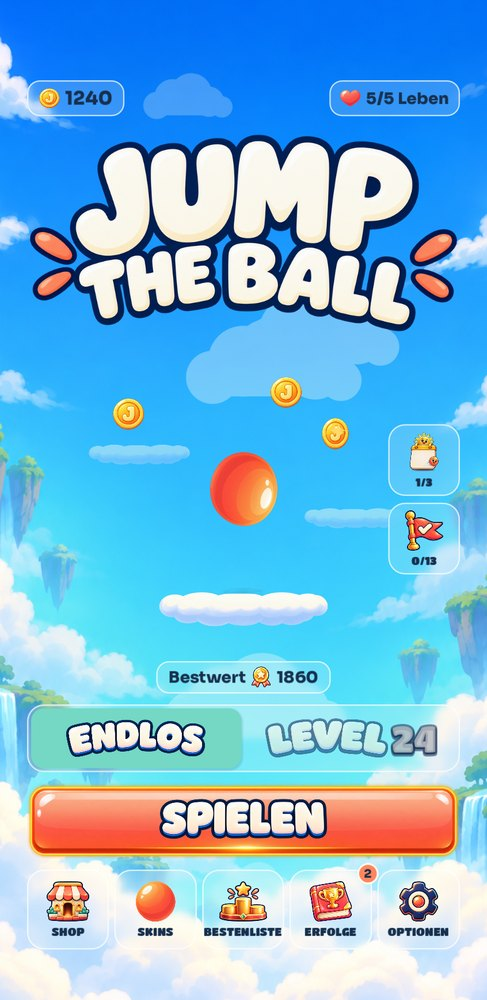
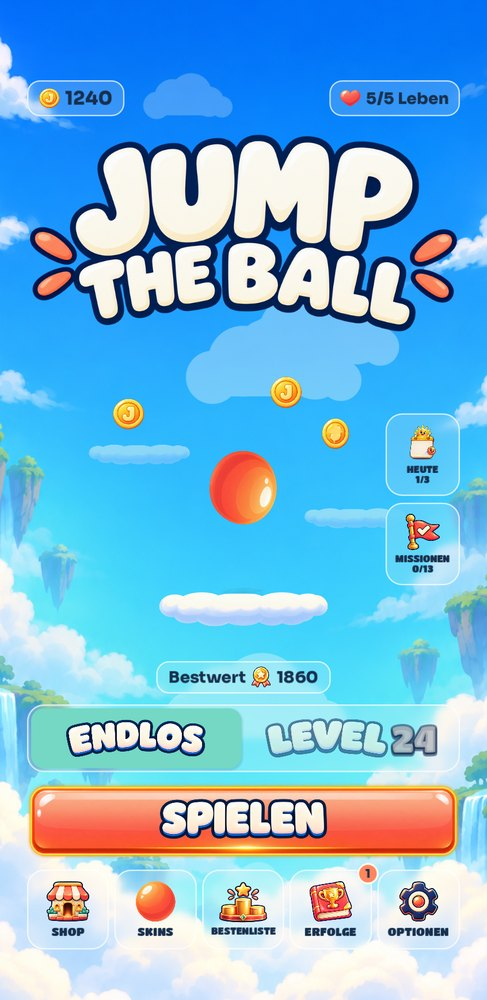
Neue Bilder: Menü, Tagesaufgabe (neu), Missionen

diff --git a/index.html b/index.html
@@ -23,7 +23,7 @@
 <link rel="icon" href="assets/img/app_icon.png?v=f6f01aa8">
 <link rel="apple-touch-icon" href="assets/img/app_icon.png?v=f6f01aa8">
 <link rel="stylesheet" href="style.css?v=b2a1a119">
-<script type="application/ld+json">{"@context": "https://schema.org", "@type": "VideoGame", "name": "Jump the Ball", "url": "https://jumptheball-game.github.io/", "description": "Ein freundliches Hüpfspiel für zwischendurch: Wische, um den Ball zu lenken, sammle Münzen, halte deine Combo und knacke deinen Rekord.", "genre": ["Arcade", "Casual"], "gamePlatform": ["iOS", "Android"], "operatingSystem": "iOS, Android", "applicationCategory": "GameApplication", "inLanguage": ["de", "en"], "image": "https://jumptheball-game.github.io/assets/img/og.jpg", "screenshot": ["https://jumptheball-game.github.io/assets/img/shot_menu_de.jpg", "https://jumptheball-game.github.io/assets/img/shot_level50_de.jpg", "https://jumptheball-game.github.io/assets/img/shot_eclipse.jpg", "https://jumptheball-game.github.io/assets/img/shot_halloween.jpg"], "author": {"@type": "Person", "name": "Leonardo Kubina"}, "publisher": {"@type": "Organization", "name": "LKBX Design"}}</script>
+<script type="application/ld+json">{"@context": "https://schema.org", "@type": "VideoGame", "name": "Jump the Ball", "url": "https://jumptheball-game.github.io/", "description": "Ein freundliches Hüpfspiel für zwischendurch: Wische, um den Ball zu lenken, sammle Münzen, halte deine Combo und knacke deinen Rekord.", "genre": ["Arcade", "Casual"], "gamePlatform": ["iOS", "Android"], "operatingSystem": "iOS, Android", "applicationCategory": "GameApplication", "inLanguage": ["de", "en"], "image": "https://jumptheball-game.github.io/assets/img/og.jpg", "screenshot": ["https://jumptheball-game.github.io/assets/img/shot_menu_de.jpg", "https://jumptheball-game.github.io/assets/img/shot_daily_de.jpg", "https://jumptheball-game.github.io/assets/img/shot_level50_de.jpg", "https://jumptheball-game.github.io/assets/img/shot_eclipse.jpg"], "author": {"@type": "Person", "name": "Leonardo Kubina"}, "publisher": {"@type": "Organization", "name": "LKBX Design"}}</script>
 </head>
 <body>
 <nav class="nav wrap" aria-label="Navigation">
@@ -41,7 +41,7 @@
     <img class="side a" src="assets/img/ball_candy_swirl.png?v=4b911b70" alt="">
     <img class="side b" src="assets/img/ball_violet_trail.png?v=2c72253e" alt="">
     <img class="side c" src="assets/img/ball_amber_pulse.png?v=ecb5bb89" alt="">
-    <div class="phone"><img src="assets/img/shot_menu_de.jpg?v=86d3cb93" alt="Hauptmenü von Jump the Ball" width="487" height="1000"></div>
+    <div class="phone"><img src="assets/img/shot_menu_de.jpg?v=2a596d10" alt="Hauptmenü von Jump the Ball" width="487" height="1000"></div>
   </div>
 </header>
 <main class="wrap">
@@ -51,7 +51,7 @@
 <div class="card feature"><img src="assets/img/ball_violet_trail.png?v=2c72253e" alt=""><h3>Barrierearme Optionen</h3><p>Klare Formen bei Farbsehschwäche, Blinkeffekte aus, weniger Bewegung und einstellbare Steuerung.</p></div></section>
   <section id="einblicke">
     <h2 class="title section">Einblicke</h2>
-    <div class="shots"><img src="assets/img/shot_menu_de.jpg?v=86d3cb93" alt="Hauptmenü von Jump the Ball" width="600" height="1300" loading="lazy"><img src="assets/img/shot_level50_de.jpg?v=a4f15c7f" alt="Levelstart von Level 50" width="600" height="1300" loading="lazy"><img src="assets/img/shot_eclipse.jpg?v=0775d4b2" alt="Spielszene in der exklusiven Welt Eclipse Rift" width="600" height="1300" loading="lazy"><img src="assets/img/shot_halloween.jpg?v=fb5808e6" alt="Spielszene in der Halloween-Welt" width="600" height="1300" loading="lazy"><img src="assets/img/shot_witches.jpg?v=bf76329f" alt="Spielszene in der roten Hexenwelt" width="600" height="1300" loading="lazy"><img src="assets/img/shot_winter.jpg?v=5e865e6b" alt="Spielszene in der Winterwelt" width="600" height="1300" loading="lazy"><img src="assets/img/shot_undead.jpg?v=73754f01" alt="Spielszene in der Untoten-Welt" width="600" height="1300" loading="lazy"><img src="assets/img/shot_missions.jpg?v=f933120e" alt="Tägliche Missionen" width="600" height="1300" loading="lazy"><img src="assets/img/shot_logbook.jpg?v=2b95f4f1" alt="Level-Logbuch mit Sternen" width="600" height="1300" loading="lazy"><img src="assets/img/shot_guide.jpg?v=f62a6b86" alt="Sprunghilfe markiert die nächste Plattform" width="600" height="1300" loading="lazy"><img src="assets/img/shot_trophies.jpg?v=f31db23e" alt="Trophäenbuch mit Eclipse-Rift-Belohnung" width="600" height="1300" loading="lazy"><img src="assets/img/shot_best_de.jpg?v=9407d8b5" alt="Neuer Bestwert nach einer Runde" width="600" height="1300" loading="lazy"></div>
+    <div class="shots"><img src="assets/img/shot_menu_de.jpg?v=2a596d10" alt="Hauptmenü von Jump the Ball" width="600" height="1300" loading="lazy"><img src="assets/img/shot_daily_de.jpg?v=34f92374" alt="Tagesaufgabe mit Zielanzeige" width="600" height="1300" loading="lazy"><img src="assets/img/shot_level50_de.jpg?v=a4f15c7f" alt="Levelstart von Level 50" width="600" height="1300" loading="lazy"><img src="assets/img/shot_eclipse.jpg?v=0775d4b2" alt="Spielszene in der exklusiven Welt Eclipse Rift" width="600" height="1300" loading="lazy"><img src="assets/img/shot_halloween.jpg?v=fb5808e6" alt="Spielszene in der Halloween-Welt" width="600" height="1300" loading="lazy"><img src="assets/img/shot_witches.jpg?v=bf76329f" alt="Spielszene in der roten Hexenwelt" width="600" height="1300" loading="lazy"><img src="assets/img/shot_winter.jpg?v=5e865e6b" alt="Spielszene in der Winterwelt" width="600" height="1300" loading="lazy"><img src="assets/img/shot_undead.jpg?v=73754f01" alt="Spielszene in der Untoten-Welt" width="600" height="1300" loading="lazy"><img src="assets/img/shot_missions.jpg?v=3646916b" alt="Tägliche Missionen" width="600" height="1300" loading="lazy"><img src="assets/img/shot_logbook.jpg?v=2b95f4f1" alt="Level-Logbuch mit Sternen" width="600" height="1300" loading="lazy"><img src="assets/img/shot_guide.jpg?v=f62a6b86" alt="Sprunghilfe markiert die nächste Plattform" width="600" height="1300" loading="lazy"><img src="assets/img/shot_trophies.jpg?v=f31db23e" alt="Trophäenbuch mit Eclipse-Rift-Belohnung" width="600" height="1300" loading="lazy"><img src="assets/img/shot_best_de.jpg?v=9407d8b5" alt="Neuer Bestwert nach einer Runde" width="600" height="1300" loading="lazy"></div>
   </section>
   <section id="faq" class="card faqs">
     <h2 class="title section dark">Häufige Fragen</h2>

diff --git a/en.html b/en.html
@@ -23,7 +23,7 @@
 <link rel="icon" href="assets/img/app_icon.png?v=f6f01aa8">
 <link rel="apple-touch-icon" href="assets/img/app_icon.png?v=f6f01aa8">
 <link rel="stylesheet" href="style.css?v=b2a1a119">
-<script type="application/ld+json">{"@context": "https://schema.org", "@type": "VideoGame", "name": "Jump the Ball", "url": "https://jumptheball-game.github.io/en.html", "description": "A friendly bounce game for in between: swipe to steer the ball, collect coins, keep your combo and beat your record.", "genre": ["Arcade", "Casual"], "gamePlatform": ["iOS", "Android"], "operatingSystem": "iOS, Android", "applicationCategory": "GameApplication", "inLanguage": ["de", "en"], "image": "https://jumptheball-game.github.io/assets/img/og.jpg", "screenshot": ["https://jumptheball-game.github.io/assets/img/shot_menu_en.jpg", "https://jumptheball-game.github.io/assets/img/shot_level50_en.jpg", "https://jumptheball-game.github.io/assets/img/shot_eclipse.jpg", "https://jumptheball-game.github.io/assets/img/shot_halloween.jpg"], "author": {"@type": "Person", "name": "Leonardo Kubina"}, "publisher": {"@type": "Organization", "name": "LKBX Design"}}</script>
+<script type="application/ld+json">{"@context": "https://schema.org", "@type": "VideoGame", "name": "Jump the Ball", "url": "https://jumptheball-game.github.io/en.html", "description": "A friendly bounce game for in between: swipe to steer the ball, collect coins, keep your combo and beat your record.", "genre": ["Arcade", "Casual"], "gamePlatform": ["iOS", "Android"], "operatingSystem": "iOS, Android", "applicationCategory": "GameApplication", "inLanguage": ["de", "en"], "image": "https://jumptheball-game.github.io/assets/img/og.jpg", "screenshot": ["https://jumptheball-game.github.io/assets/img/shot_menu_en.jpg", "https://jumptheball-game.github.io/assets/img/shot_daily_en.jpg", "https://jumptheball-game.github.io/assets/img/shot_level50_en.jpg", "https://jumptheball-game.github.io/assets/img/shot_eclipse.jpg"], "author": {"@type": "Person", "name": "Leonardo Kubina"}, "publisher": {"@type": "Organization", "name": "LKBX Design"}}</script>
 </head>
 <body>
 <nav class="nav wrap" aria-label="Navigation">
@@ -41,7 +41,7 @@
     <img class="side a" src="assets/img/ball_candy_swirl.png?v=4b911b70" alt="">
     <img class="side b" src="assets/img/ball_violet_trail.png?v=2c72253e" alt="">
     <img class="side c" src="assets/img/ball_amber_pulse.png?v=ecb5bb89" alt="">
-    <div class="phone"><img src="assets/img/shot_menu_en.jpg?v=474a1b92" alt="Jump the Ball main menu" width="487" height="1000"></div>
+    <div class="phone"><img src="assets/img/shot_menu_en.jpg?v=35354d2f" alt="Jump the Ball main menu" width="487" height="1000"></div>
   </div>
 </header>
 <main class="wrap">
@@ -51,7 +51,7 @@
 <div class="card feature"><img src="assets/img/ball_violet_trail.png?v=2c72253e" alt=""><h3>Accessibility options</h3><p>Clear shapes for colour vision deficiency, flash effects off, reduced motion and adjustable steering.</p></div></section>
   <section id="einblicke">
     <h2 class="title section">A look inside</h2>
-    <div class="shots"><img src="assets/img/shot_menu_en.jpg?v=474a1b92" alt="Jump the Ball main menu" width="600" height="1300" loading="lazy"><img src="assets/img/shot_level50_en.jpg?v=70226ffc" alt="Start of level 50" width="600" height="1300" loading="lazy"><img src="assets/img/shot_eclipse.jpg?v=0775d4b2" alt="Gameplay in the exclusive Eclipse Rift world" width="600" height="1300" loading="lazy"><img src="assets/img/shot_halloween.jpg?v=fb5808e6" alt="Gameplay in the Halloween world" width="600" height="1300" loading="lazy"><img src="assets/img/shot_witches.jpg?v=bf76329f" alt="Gameplay in the red witches world" width="600" height="1300" loading="lazy"><img src="assets/img/shot_winter.jpg?v=5e865e6b" alt="Gameplay in the winter world" width="600" height="1300" loading="lazy"><img src="assets/img/shot_undead.jpg?v=73754f01" alt="Gameplay in the undead world" width="600" height="1300" loading="lazy"><img src="assets/img/shot_missions.jpg?v=f933120e" alt="Daily missions" width="600" height="1300" loading="lazy"><img src="assets/img/shot_logbook.jpg?v=2b95f4f1" alt="Level log with stars" width="600" height="1300" loading="lazy"><img src="assets/img/shot_guide.jpg?v=f62a6b86" alt="Jump guide highlights the next platform" width="600" height="1300" loading="lazy"><img src="assets/img/shot_best_en.jpg?v=b49760cc" alt="New best score after a run" width="600" height="1300" loading="lazy"></div>
+    <div class="shots"><img src="assets/img/shot_menu_en.jpg?v=35354d2f" alt="Jump the Ball main menu" width="600" height="1300" loading="lazy"><img src="assets/img/shot_daily_en.jpg?v=f28d7f3a" alt="Daily challenge with goal display" width="600" height="1300" loading="lazy"><img src="assets/img/shot_level50_en.jpg?v=70226ffc" alt="Start of level 50" width="600" height="1300" loading="lazy"><img src="assets/img/shot_eclipse.jpg?v=0775d4b2" alt="Gameplay in the exclusive Eclipse Rift world" width="600" height="1300" loading="lazy"><img src="assets/img/shot_halloween.jpg?v=fb5808e6" alt="Gameplay in the Halloween world" width="600" height="1300" loading="lazy"><img src="assets/img/shot_witches.jpg?v=bf76329f" alt="Gameplay in the red witches world" width="600" height="1300" loading="lazy"><img src="assets/img/shot_winter.jpg?v=5e865e6b" alt="Gameplay in the winter world" width="600" height="1300" loading="lazy"><img src="assets/img/shot_undead.jpg?v=73754f01" alt="Gameplay in the undead world" width="600" height="1300" loading="lazy"><img src="assets/img/shot_missions.jpg?v=3646916b" alt="Daily missions" width="600" height="1300" loading="lazy"><img src="assets/img/shot_logbook.jpg?v=2b95f4f1" alt="Level log with stars" width="600" height="1300" loading="lazy"><img src="assets/img/shot_guide.jpg?v=f62a6b86" alt="Jump guide highlights the next platform" width="600" height="1300" loading="lazy"><img src="assets/img/shot_best_en.jpg?v=b49760cc" alt="New best score after a run" width="600" height="1300" loading="lazy"></div>
   </section>
   <section id="faq" class="card faqs">
     <h2 class="title section dark">FAQ</h2>
